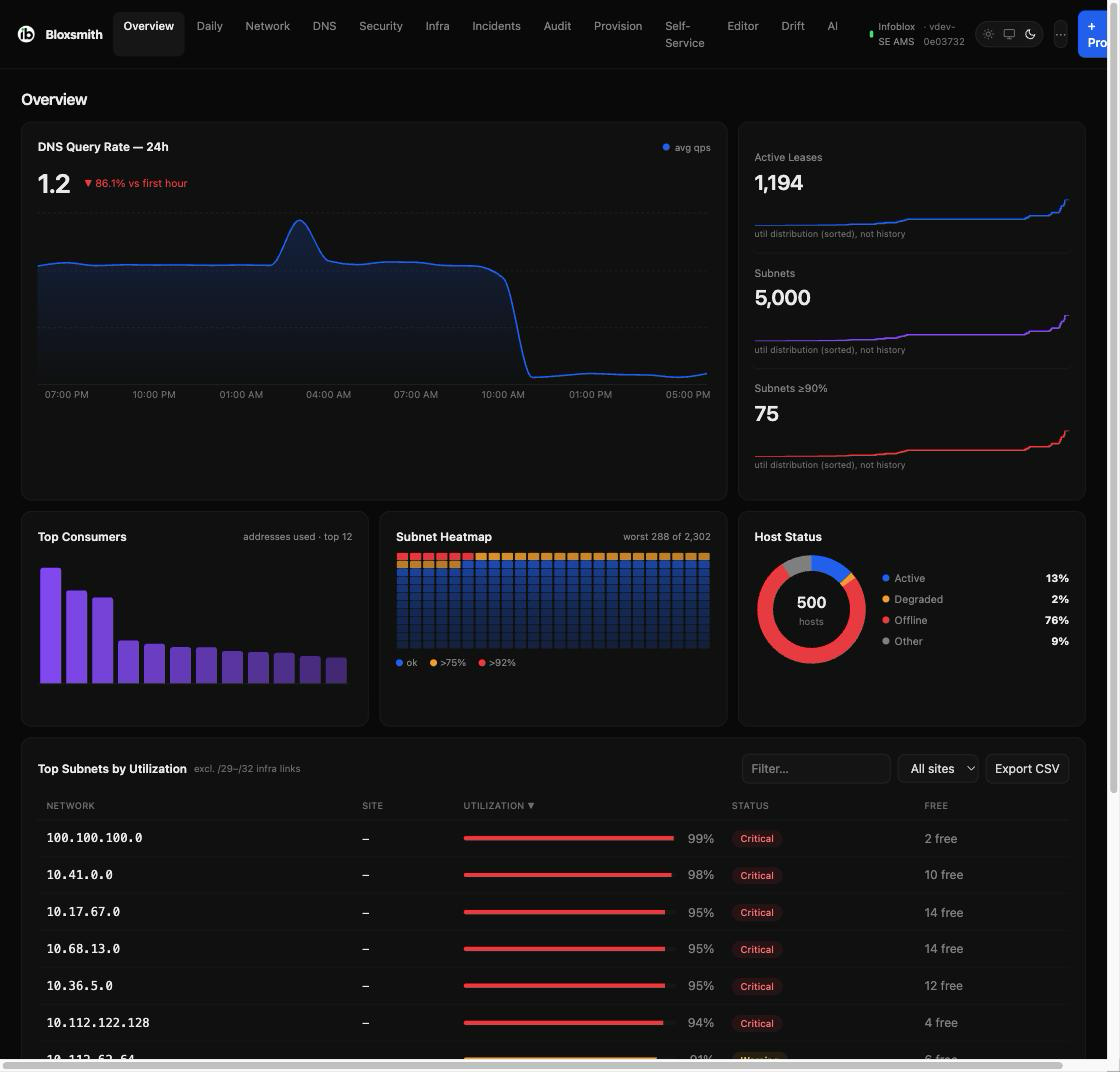
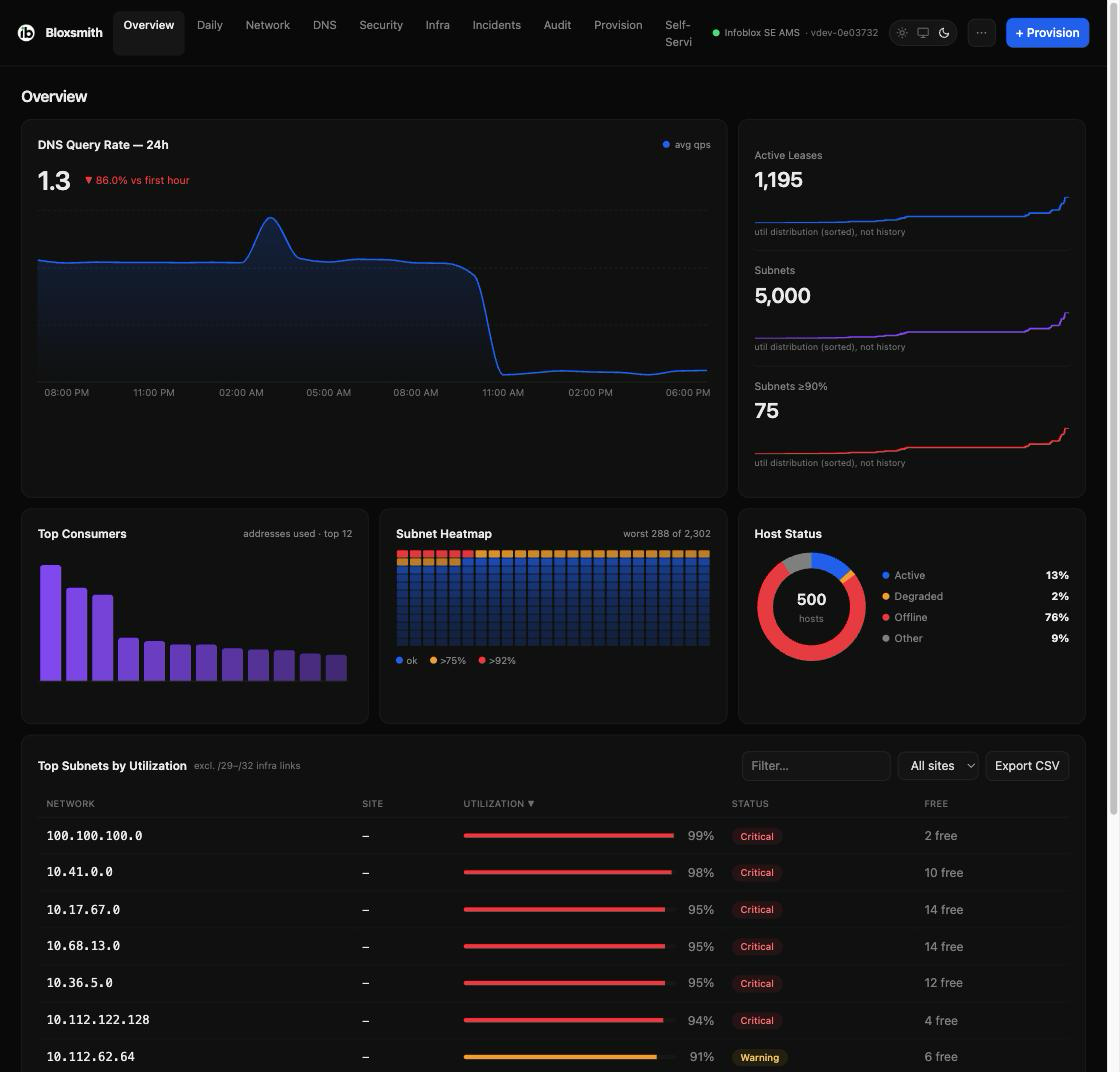
fix: v3.6.3 — kill horizontal scroll (tables + topbar), Windows install works from cmd, clean hero
- Infra CSP tables (Host Health, On-Prem Hosts, etc): table-fixed + ellipsis-truncate cells + hover title; no more horizontal scrollbar from long OPH ID hashes
- Topbar: nav shrinks/scrolls internally (hidden scrollbar), right controls pinned shrink-0 — page no longer overflows ~49px at laptop widths
- index.css: add .no-scrollbar utility
- README Windows: powershell -Command wrapper so it runs from Command Prompt too (fixes "iwr is not recognized"), explicit notepad inspect step
- docs/dashboard.png: recaptured hero with no baked-in scrollbar / clipping

diff --git a/ui/src/App.jsx b/ui/src/App.jsx
@@ -119,8 +119,8 @@ export default function App() {
             className="h-5 w-5 rounded cursor-pointer"
             onClick={() => setShowBrand(true)}
           />
-          <strong className="tracking-tight">Bloxsmith</strong>
-          <nav className="flex gap-0.5">
+          <strong className="tracking-tight shrink-0">Bloxsmith</strong>
+          <nav className="flex gap-0.5 min-w-0 overflow-x-auto no-scrollbar">
             {TABS.map((t) => (
               <a
                 key={t.id}
@@ -137,23 +137,25 @@ export default function App() {
             ))}
           </nav>
           <span className="flex-1" />
-          <ConnStatus />
-          <UpdateButton />
-          <ThemeSwitch />
-          <button
-            onClick={() => setShowAccounts(true)}
-            title="Settings"
-            aria-label="Settings"
-            className="w-8 h-8 rounded-lg border border-border bg-field text-muted hover:text-txt hover:border-border-hover"
-          >
-            ⋯
-          </button>
-          <a
-            href="#provision"
-            className="px-2.5 py-1.5 rounded-lg bg-accent border border-accent text-white text-sm font-medium no-underline"
-          >
-            + Provision
-          </a>
+          <div className="flex items-center gap-3 shrink-0">
+            <ConnStatus />
+            <UpdateButton />
+            <ThemeSwitch />
+            <button
+              onClick={() => setShowAccounts(true)}
+              title="Settings"
+              aria-label="Settings"
+              className="w-8 h-8 rounded-lg border border-border bg-field text-muted hover:text-txt hover:border-border-hover"
+            >
+              ⋯
+            </button>
+            <a
+              href="#provision"
+              className="px-2.5 py-1.5 rounded-lg bg-accent border border-accent text-white text-sm font-medium no-underline"
+            >
+              + Provision
+            </a>
+          </div>
         </div>
         <Active />
         <Palette tabs={TABS} onPick={(id) => { location.hash = id }} />

diff --git a/ui/src/tabs/Infra.jsx b/ui/src/tabs/Infra.jsx
@@ -168,8 +168,8 @@ function FeedCard({ span, title, note, feed, columns }) {
       ) : rows.length === 0 ? (
         <Empty />
       ) : (
-        <div className="overflow-auto max-h-[260px]">
-          <table className="w-full border-collapse text-sm">
+        <div className="overflow-x-hidden overflow-y-auto max-h-[260px]">
+          <table className="w-full table-fixed border-collapse text-sm">
             <thead>
               <tr>
                 {columns.map((c) => (
@@ -195,7 +195,7 @@ function FeedCard({ span, title, note, feed, columns }) {
                       )
                     }
                     return (
-                      <td key={c.key} className={`py-2 px-2.5 border-b border-line ${c.mono ? 'font-mono' : ''}`}>
+                      <td key={c.key} title={v != null ? String(v) : undefined} className={`py-2 px-2.5 border-b border-line truncate ${c.mono ? 'font-mono' : ''}`}>
                         {v ?? '—'}
                       </td>
                     )

diff --git a/go/web/index.html b/go/web/index.html
@@ -8,8 +8,8 @@
     <script>
       try{var m=localStorage.getItem('theme');var d=m==='light'?false:m==='dark'?true:!window.matchMedia||matchMedia('(prefers-color-scheme:dark)').matches;document.documentElement.setAttribute('data-theme',d?'dark':'light');}catch(e){document.documentElement.setAttribute('data-theme','dark')}
     </script>
-    <script type="module" crossorigin src="/assets/index-DmpgO4RT.js"></script>
-    <link rel="stylesheet" crossorigin href="/assets/index-B5eGEwpr.css">
+    <script type="module" crossorigin src="/assets/index-CXE7foCo.js"></script>
+    <link rel="stylesheet" crossorigin href="/assets/index-UkcIab5a.css">
   </head>
   <body>
     <div id="root"></div>

diff --git a/ui/src/index.css b/ui/src/index.css
@@ -80,3 +80,7 @@ body {
   background: var(--color-bg);
   min-height: 100vh;
 }
+
+/* hide scrollbar on internally-scrolling strips (e.g. topbar nav on narrow widths) */
+.no-scrollbar { scrollbar-width: none; -ms-overflow-style: none; }
+.no-scrollbar::-webkit-scrollbar { display: none; }

diff --git a/go/web/assets/index-UkcIab5a.css b/go/web/assets/index-UkcIab5a.css
@@ -1,0 +1,2 @@
+/*! tailwindcss v4.3.3 | MIT License | https://tailwindcss.com */
+@layer properties{@supports (((-webkit-hyphens:none)) and (not (margin-trim:inline))) or ((-moz-orient:inline) and (not (color:rgb(from red r g b)))){*,:before,:after,::backdrop{--tw-rotate-x:initial;--tw-rotate-y:initial;--tw-rotate-z:initial;--tw-skew-x:initial;--tw-skew-y:initial;--tw-space-y-reverse:0;--tw-border-style:solid;--tw-leading:initial;--tw-font-weight:initial;--tw-tracking:initial;--tw-shadow:0 0 #0000;--tw-shadow-color:initial;--tw-shadow-alpha:100%;--tw-inset-shadow:0 0 #0000;--tw-inset-shadow-color:initial;--tw-inset-shadow-alpha:100%;--tw-ring-color:initial;--tw-ring-shadow:0 0 #0000;--tw-inset-ring-color:initial;--tw-inset-ring-shadow:0 0 #0000;--tw-ring-inset:initial;--tw-ring-offset-width:0px;--tw-ring-offset-color:#fff;--tw-ring-offset-shadow:0 0 #0000;--tw-blur:initial;--tw-brightness:initial;--tw-contrast:initial;--tw-grayscale:initial;--tw-hue-rotate:initial;--tw-invert:initial;--tw-opacity:initial;--tw-saturate:initial;--tw-sepia:initial;--tw-drop-shadow:initial;--tw-drop-shadow-color:initial;--tw-drop-shadow-alpha:100%;--tw-drop-shadow-size:initial;--tw-backdrop-blur:initial;--tw-backdrop-brightness:initial;--tw-backdrop-contrast:initial;--tw-backdrop-grayscale:initial;--tw-backdrop-hue-rotate:initial;--tw-backdrop-invert:initial;--tw-backdrop-opacity:initial;--tw-backdrop-saturate:initial;--tw-backdrop-sepia:initial}}}@layer theme{:root,:host{--font-sans:system-ui, -apple-system, sans-serif;--font-mono:ui-monospace, SFMono-Regular, Menlo, Monaco, Consolas, "Liberation Mono", "Courier New", monospace;--color-red-500:oklch(63.7% .237 25.331);--color-black:#000;--color-white:#fff;--spacing:.25rem;--text-xs:.75rem;--text-xs--line-height:calc(1 / .75);--text-sm:.875rem;--text-sm--line-height:calc(1.25 / .875);--text-base:1rem;--text-base--line-height:calc(1.5 / 1);--text-lg:1.125rem;--text-lg--line-height:calc(1.75 / 1.125);--text-xl:1.25rem;--text-xl--line-height:calc(1.75 / 1.25);--text-2xl:1.5rem;--text-2xl--line-height:calc(2 / 1.5);--font-weight-normal:400;--font-weight-medium:500;--font-weight-semibold:600;--tracking-tight:-.025em;--tracking-wide:.025em;--leading-relaxed:1.625;--radius-sm:.25rem;--radius-md:.375rem;--radius-lg:.5rem;--radius-xl:.75rem;--animate-spin:spin 1s linear infinite;--animate-pulse:pulse 2s cubic-bezier(.4, 0, .6, 1) infinite;--default-transition-duration:.15s;--default-transition-timing-function:cubic-bezier(.4, 0, .2, 1);--default-font-family:var(--font-sans);--default-mono-font-family:var(--font-mono);--color-bg:#050505;--color-card:#0e0e0e;--color-card-border:#1e1e1e;--color-line:#161616;--color-line-2:#1c1c1c;--color-field:#141414;--color-border:#2a2a2a;--color-border-hover:#3a3a3a;--color-txt:#ededed;--color-field-txt:#ddd;--color-muted:#8a8a8a;--color-dim:#777;--color-grid:#222;--color-tick:#777;--color-accent:#0070f3;--color-purple:#8b5cf6;--color-ok:#4ade80;--color-warn:#f5a623;--color-crit:#e44;--color-other:#8a8a8a;--color-sev-high:#ff7b7b;--radius-card:12px}}@layer base{*,:after,:before,::backdrop{box-sizing:border-box;border:0 solid;margin:0;padding:0}::file-selector-button{box-sizing:border-box;border:0 solid;margin:0;padding:0}html,:host{-webkit-text-size-adjust:100%;tab-size:4;line-height:1.5;font-family:var(--default-font-family,-apple-system, BlinkMacSystemFont, "Segoe UI", Roboto, "Helvetica Neue", "Noto Sans", Arial, sans-serif, "Apple Color Emoji", "Segoe UI Emoji", "Segoe UI Symbol", "Noto Color Emoji");font-feature-settings:var(--default-font-feature-settings,normal);font-variation-settings:var(--default-font-variation-settings,normal);-webkit-tap-highlight-color:transparent}hr{height:0;color:inherit;border-top-width:1px}abbr:where([title]){-webkit-text-decoration:underline dotted;text-decoration:underline dotted}h1,h2,h3,h4,h5,h6{font-size:inherit;font-weight:inherit}a{color:inherit;-webkit-text-decoration:inherit;-webkit-text-decoration:inherit;-webkit-text-decoration:inherit;-webkit-text-decoration:inherit;text-decoration:inherit}b,strong{font-weight:bolder}code,kbd,samp,pre{font-family:var(--default-mono-font-family,ui-monospace, SFMono-Regular, Menlo, Monaco, Consolas, "Liberation Mono", "Courier New", monospace);font-feature-settings:var(--default-mono-font-feature-settings,normal);font-variation-settings:var(--default-mono-font-variation-settings,normal);font-size:1em}small{font-size:80%}sub,sup{vertical-align:baseline;font-size:75%;line-height:0;position:relative}sub{bottom:-.25em}sup{top:-.5em}table{text-indent:0;border-color:inherit;border-collapse:collapse}:-moz-focusring:where(:not(iframe)){outline:auto}progress{vertical-align:baseline}summary{display:list-item}ol,ul,menu{list-style:none}img,svg,video,canvas,audio,iframe,embed,object{vertical-align:middle;display:block}img,video{max-width:100%;height:auto}button,input,select,optgroup,textarea{font:inherit;font-feature-settings:inherit;font-variation-settings:inherit;letter-spacing:inherit;color:inherit;opacity:1;background-color:#0000;border-radius:0}::file-selector-button{font:inherit;font-feature-settings:inherit;font-variation-settings:inherit;letter-spacing:inherit;color:inherit;opacity:1;background-color:#0000;border-radius:0}:where(select:is([multiple],[size])) optgroup{font-weight:bolder}:where(select:is([multiple],[size])) optgroup option{padding-inline-start:20px}::file-selector-button{margin-inline-end:4px}::placeholder{opacity:1}@supports (not ((-webkit-appearance:-apple-pay-button))) or (contain-intrinsic-size:1px){::placeholder{color:currentColor}@supports (color:color-mix(in lab, red, red)){::placeholder{color:color-mix(in oklab, currentcolor 50%, transparent)}}}textarea{resize:vertical}::-webkit-search-decoration{-webkit-appearance:none}::-webkit-date-and-time-value{min-height:1lh;text-align:inherit}::-webkit-datetime-edit{display:inline-flex}::-webkit-datetime-edit-fields-wrapper{padding:0}::-webkit-datetime-edit{padding-block:0}::-webkit-datetime-edit-year-field{padding-block:0}::-webkit-datetime-edit-month-field{padding-block:0}::-webkit-datetime-edit-day-field{padding-block:0}::-webkit-datetime-edit-hour-field{padding-block:0}::-webkit-datetime-edit-minute-field{padding-block:0}::-webkit-datetime-edit-second-field{padding-block:0}::-webkit-datetime-edit-millisecond-field{padding-block:0}::-webkit-datetime-edit-meridiem-field{padding-block:0}::-webkit-calendar-picker-indicator{line-height:1}:-moz-ui-invalid{box-shadow:none}button,input:where([type=button],[type=reset],[type=submit]){appearance:button}::file-selector-button{appearance:button}::-webkit-inner-spin-button{height:auto}::-webkit-outer-spin-button{height:auto}[hidden]:where(:not([hidden=until-found])){display:none!important}}@layer components;@layer utilities{.pointer-events-none{pointer-events:none}.absolute{position:absolute}.fixed{position:fixed}.relative{position:relative}.sticky{position:sticky}.inset-0{inset:0}.top-0{top:0}.z-10{z-index:10}.z-50{z-index:50}.z-\[200\]{z-index:200}.-mx-1{margin-inline:calc(var(--spacing) * -1)}.mx-auto{margin-inline:auto}.my-1{margin-block:var(--spacing)}.my-2{margin-block:calc(var(--spacing) * 2)}.mt-0\.5{margin-top:calc(var(--spacing) * .5)}.mt-1{margin-top:var(--spacing)}.mt-1\.5{margin-top:calc(var(--spacing) * 1.5)}.mt-2{margin-top:calc(var(--spacing) * 2)}.mt-2\.5{margin-top:calc(var(--spacing) * 2.5)}.mt-3{margin-top:calc(var(--spacing) * 3)}.mt-3\.5{margin-top:calc(var(--spacing) * 3.5)}.mt-4{margin-top:calc(var(--spacing) * 4)}.mb-0\.5{margin-bottom:calc(var(--spacing) * .5)}.mb-1{margin-bottom:var(--spacing)}.mb-1\.5{margin-bottom:calc(var(--spacing) * 1.5)}.mb-2{margin-bottom:calc(var(--spacing) * 2)}.mb-3{margin-bottom:calc(var(--spacing) * 3)}.mb-4{margin-bottom:calc(var(--spacing) * 4)}.mb-5{margin-bottom:calc(var(--spacing) * 5)}.ml-2{margin-left:calc(var(--spacing) * 2)}.ml-auto{margin-left:auto}.block{display:block}.contents{display:contents}.flex{display:flex}.grid{display:grid}.inline{display:inline}.inline-block{display:inline-block}.inline-flex{display:inline-flex}.table{display:table}.h-2{height:calc(var(--spacing) * 2)}.h-5{height:calc(var(--spacing) * 5)}.h-6{height:calc(var(--spacing) * 6)}.h-7{height:calc(var(--spacing) * 7)}.h-8{height:calc(var(--spacing) * 8)}.h-\[5px\]{height:5px}.h-\[6px\]{height:6px}.h-\[30px\]{height:30px}.h-\[130px\]{height:130px}.h-full{height:100%}.max-h-\[80vh\]{max-height:80vh}.max-h-\[220px\]{max-height:220px}.max-h-\[240px\]{max-height:240px}.max-h-\[260px\]{max-height:260px}.max-h-\[280px\]{max-height:280px}.max-h-\[300px\]{max-height:300px}.max-h-\[420px\]{max-height:420px}.max-h-\[480px\]{max-height:480px}.min-h-\[100px\]{min-height:100px}.min-h-\[280px\]{min-height:280px}.min-h-screen{min-height:100vh}.w-2{width:calc(var(--spacing) * 2)}.w-5{width:calc(var(--spacing) * 5)}.w-6{width:calc(var(--spacing) * 6)}.w-7{width:calc(var(--spacing) * 7)}.w-8{width:calc(var(--spacing) * 8)}.w-9{width:calc(var(--spacing) * 9)}.w-12{width:calc(var(--spacing) * 12)}.w-\[110px\]{width:110px}.w-\[130px\]{width:130px}.w-\[150px\]{width:150px}.w-\[170px\]{width:170px}.w-\[220px\]{width:220px}.w-\[360px\]{width:360px}.w-\[380px\]{width:380px}.w-\[420px\]{width:420px}.w-fit{width:fit-content}.w-full{width:100%}.max-w-\[80\%\]{max-width:80%}.max-w-\[85\%\]{max-width:85%}.max-w-\[140px\]{max-width:140px}.max-w-\[160px\]{max-width:160px}.max-w-\[640px\]{max-width:640px}.max-w-\[720px\]{max-width:720px}.max-w-\[860px\]{max-width:860px}.max-w-full{max-width:100%}.min-w-0{min-width:0}.min-w-\[70px\]{min-width:70px}.min-w-\[420px\]{min-width:420px}.flex-1{flex:1}.shrink-0{flex-shrink:0}.table-fixed{table-layout:fixed}.border-collapse{border-collapse:collapse}.transform{transform:var(--tw-rotate-x,) var(--tw-rotate-y,) var(--tw-rotate-z,) var(--tw-skew-x,) var(--tw-skew-y,)}.animate-pulse{animation:var(--animate-pulse)}.animate-spin{animation:var(--animate-spin)}.cursor-pointer{cursor:pointer}.grid-cols-1{grid-template-columns:repeat(1,minmax(0,1fr))}.grid-cols-2{grid-template-columns:repeat(2,minmax(0,1fr))}.grid-cols-4{grid-template-columns:repeat(4,minmax(0,1fr))}.grid-cols-6{grid-template-columns:repeat(6,minmax(0,1fr))}.grid-cols-\[auto_1fr\]{grid-template-columns:auto 1fr}.flex-col{flex-direction:column}.flex-row{flex-direction:row}.flex-wrap{flex-wrap:wrap}.items-center{align-items:center}.items-start{align-items:flex-start}.items-stretch{align-items:stretch}.justify-between{justify-content:space-between}.justify-center{justify-content:center}.justify-end{justify-content:flex-end}.justify-start{justify-content:flex-start}.gap-0\.5{gap:calc(var(--spacing) * .5)}.gap-1{gap:var(--spacing)}.gap-1\.5{gap:calc(var(--spacing) * 1.5)}.gap-2{gap:calc(var(--spacing) * 2)}.gap-2\.5{gap:calc(var(--spacing) * 2.5)}.gap-3{gap:calc(var(--spacing) * 3)}.gap-3\.5{gap:calc(var(--spacing) * 3.5)}.gap-4{gap:calc(var(--spacing) * 4)}.gap-5{gap:calc(var(--spacing) * 5)}:where(.space-y-0\.5>:not(:last-child)){--tw-space-y-reverse:0;margin-block-start:calc(calc(var(--spacing) * .5) * var(--tw-space-y-reverse));margin-block-end:calc(calc(var(--spacing) * .5) * calc(1 - var(--tw-space-y-reverse)))}:where(.space-y-1>:not(:last-child)){--tw-space-y-reverse:0;margin-block-start:calc(var(--spacing) * var(--tw-space-y-reverse));margin-block-end:calc(var(--spacing) * calc(1 - var(--tw-space-y-reverse)))}:where(.space-y-2>:not(:last-child)){--tw-space-y-reverse:0;margin-block-start:calc(calc(var(--spacing) * 2) * var(--tw-space-y-reverse));margin-block-end:calc(calc(var(--spacing) * 2) * calc(1 - var(--tw-space-y-reverse)))}.gap-x-3{column-gap:calc(var(--spacing) * 3)}.gap-y-0\.5{row-gap:calc(var(--spacing) * .5)}.self-start{align-self:flex-start}.truncate{text-overflow:ellipsis;white-space:nowrap;overflow:hidden}.overflow-auto{overflow:auto}.overflow-hidden{overflow:hidden}.overflow-x-auto{overflow-x:auto}.overflow-x-hidden{overflow-x:hidden}.overflow-y-auto{overflow-y:auto}.rounded{border-radius:.25rem}.rounded-card{border-radius:var(--radius-card)}.rounded-full{border-radius:2147483647px}.rounded-lg{border-radius:var(--radius-lg)}.rounded-md{border-radius:var(--radius-md)}.rounded-sm{border-radius:var(--radius-sm)}.rounded-xl{border-radius:var(--radius-xl)}.border{border-style:var(--tw-border-style);border-width:1px}.border-2{border-style:var(--tw-border-style);border-width:2px}.border-t{border-top-style:var(--tw-border-style);border-top-width:1px}.border-r{border-right-style:var(--tw-border-style);border-right-width:1px}.border-b{border-bottom-style:var(--tw-border-style);border-bottom-width:1px}.border-none{--tw-border-style:none;border-style:none}.border-accent{border-color:var(--color-accent)}.border-border{border-color:var(--color-border)}.border-card-border{border-color:var(--color-card-border)}.border-crit{border-color:var(--color-crit)}.border-crit\/40{border-color:#e446}@supports (color:color-mix(in lab, red, red)){.border-crit\/40{border-color:color-mix(in oklab, var(--color-crit) 40%, transparent)}}.border-line{border-color:var(--color-line)}.border-line-2{border-color:var(--color-line-2)}.border-transparent{border-color:#0000}.border-t-accent{border-top-color:var(--color-accent)}.bg-accent{background-color:var(--color-accent)}.bg-bg{background-color:var(--color-bg)}.bg-bg\/95{background-color:#050505f2}@supports (color:color-mix(in lab, red, red)){.bg-bg\/95{background-color:color-mix(in oklab, var(--color-bg) 95%, transparent)}}.bg-black\/60{background-color:#0009}@supports (color:color-mix(in lab, red, red)){.bg-black\/60{background-color:color-mix(in oklab, var(--color-black) 60%, transparent)}}.bg-card{background-color:var(--color-card)}.bg-crit\/10{background-color:#ee44441a}@supports (color:color-mix(in lab, red, red)){.bg-crit\/10{background-color:color-mix(in oklab, var(--color-crit) 10%, transparent)}}.bg-field{background-color:var(--color-field)}.bg-line{background-color:var(--color-line)}.bg-line-2{background-color:var(--color-line-2)}.bg-line\/40{background-color:#16161666}@supports (color:color-mix(in lab, red, red)){.bg-line\/40{background-color:color-mix(in oklab, var(--color-line) 40%, transparent)}}.bg-transparent{background-color:#0000}.object-contain{object-fit:contain}.p-0\.5{padding:calc(var(--spacing) * .5)}.p-1{padding:var(--spacing)}.p-2{padding:calc(var(--spacing) * 2)}.p-2\.5{padding:calc(var(--spacing) * 2.5)}.p-3{padding:calc(var(--spacing) * 3)}.p-5{padding:calc(var(--spacing) * 5)}.p-8{padding:calc(var(--spacing) * 8)}.p-\[18px\]{padding:18px}.px-1{padding-inline:var(--spacing)}.px-1\.5{padding-inline:calc(var(--spacing) * 1.5)}.px-2{padding-inline:calc(var(--spacing) * 2)}.px-2\.5{padding-inline:calc(var(--spacing) * 2.5)}.px-3{padding-inline:calc(var(--spacing) * 3)}.px-3\.5{padding-inline:calc(var(--spacing) * 3.5)}.px-4{padding-inline:calc(var(--spacing) * 4)}.px-5{padding-inline:calc(var(--spacing) * 5)}.px-6{padding-inline:calc(var(--spacing) * 6)}.py-0\.5{padding-block:calc(var(--spacing) * .5)}.py-1{padding-block:var(--spacing)}.py-1\.5{padding-block:calc(var(--spacing) * 1.5)}.py-2{padding-block:calc(var(--spacing) * 2)}.py-2\.5{padding-block:calc(var(--spacing) * 2.5)}.py-3{padding-block:calc(var(--spacing) * 3)}.py-3\.5{padding-block:calc(var(--spacing) * 3.5)}.py-4{padding-block:calc(var(--spacing) * 4)}.py-5{padding-block:calc(var(--spacing) * 5)}.pt-1{padding-top:var(--spacing)}.pt-2{padding-top:calc(var(--spacing) * 2)}.pt-3{padding-top:calc(var(--spacing) * 3)}.pt-\[18vh\]{padding-top:18vh}.pr-3{padding-right:calc(var(--spacing) * 3)}.pb-1{padding-bottom:var(--spacing)}.text-center{text-align:center}.text-left{text-align:left}.text-right{text-align:right}.align-top{vertical-align:top}.font-mono{font-family:var(--font-mono)}.text-2xl{font-size:var(--text-2xl);line-height:var(--tw-leading,var(--text-2xl--line-height))}.text-base{font-size:var(--text-base);line-height:var(--tw-leading,var(--text-base--line-height))}.text-lg{font-size:var(--text-lg);line-height:var(--tw-leading,var(--text-lg--line-height))}.text-sm{font-size:var(--text-sm);line-height:var(--tw-leading,var(--text-sm--line-height))}.text-xl{font-size:var(--text-xl);line-height:var(--tw-leading,var(--text-xl--line-height))}.text-xs{font-size:var(--text-xs);line-height:var(--tw-leading,var(--text-xs--line-height))}.text-\[10\.5px\]{font-size:10.5px}.text-\[10px\]{font-size:10px}.text-\[11px\]{font-size:11px}.text-\[12px\]{font-size:12px}.text-\[13\.5px\]{font-size:13.5px}.text-\[13px\]{font-size:13px}.text-\[22px\]{font-size:22px}.text-\[30px\]{font-size:30px}.leading-relaxed{--tw-leading:var(--leading-relaxed);line-height:var(--leading-relaxed)}.font-medium{--tw-font-weight:var(--font-weight-medium);font-weight:var(--font-weight-medium)}.font-normal{--tw-font-weight:var(--font-weight-normal);font-weight:var(--font-weight-normal)}.font-semibold{--tw-font-weight:var(--font-weight-semibold);font-weight:var(--font-weight-semibold)}.tracking-tight{--tw-tracking:var(--tracking-tight);letter-spacing:var(--tracking-tight)}.tracking-wide{--tw-tracking:var(--tracking-wide);letter-spacing:var(--tracking-wide)}.break-all{word-break:break-all}.whitespace-nowrap{white-space:nowrap}.whitespace-pre-wrap{white-space:pre-wrap}.text-crit{color:var(--color-crit)}.text-dim{color:var(--color-dim)}.text-field-txt{color:var(--color-field-txt)}.text-muted{color:var(--color-muted)}.text-ok{color:var(--color-ok)}.text-red-500{color:var(--color-red-500)}.text-txt{color:var(--color-txt)}.text-white{color:var(--color-white)}.capitalize{text-transform:capitalize}.uppercase{text-transform:uppercase}.no-underline{text-decoration-line:none}.underline{text-decoration-line:underline}.underline-offset-2{text-underline-offset:2px}.opacity-70{opacity:.7}.shadow-2xl{--tw-shadow:0 25px 50px -12px var(--tw-shadow-color,#00000040);box-shadow:var(--tw-inset-shadow), var(--tw-inset-ring-shadow), var(--tw-ring-offset-shadow), var(--tw-ring-shadow), var(--tw-shadow)}.filter{filter:var(--tw-blur,) var(--tw-brightness,) var(--tw-contrast,) var(--tw-grayscale,) var(--tw-hue-rotate,) var(--tw-invert,) var(--tw-saturate,) var(--tw-sepia,) var(--tw-drop-shadow,)}.backdrop-blur{--tw-backdrop-blur:blur(8px);-webkit-backdrop-filter:var(--tw-backdrop-blur,) var(--tw-backdrop-brightness,) var(--tw-backdrop-contrast,) var(--tw-backdrop-grayscale,) var(--tw-backdrop-hue-rotate,) var(--tw-backdrop-invert,) var(--tw-backdrop-opacity,) var(--tw-backdrop-saturate,) var(--tw-backdrop-sepia,);backdrop-filter:var(--tw-backdrop-blur,) var(--tw-backdrop-brightness,) var(--tw-backdrop-contrast,) var(--tw-backdrop-grayscale,) var(--tw-backdrop-hue-rotate,) var(--tw-backdrop-invert,) var(--tw-backdrop-opacity,) var(--tw-backdrop-saturate,) var(--tw-backdrop-sepia,)}.transition-colors{transition-property:color,background-color,border-color,outline-color,text-decoration-color,fill,stroke,--tw-gradient-from,--tw-gradient-via,--tw-gradient-to;transition-timing-function:var(--tw-ease,var(--default-transition-timing-function));transition-duration:var(--tw-duration,var(--default-transition-duration))}.transition-opacity{transition-property:opacity;transition-timing-function:var(--tw-ease,var(--default-transition-timing-function));transition-duration:var(--tw-duration,var(--default-transition-duration))}.outline-none{--tw-outline-style:none;outline-style:none}.select-none{-webkit-user-select:none;user-select:none}.last\:border-0:last-child{border-style:var(--tw-border-style);border-width:0}@media (hover:hover){.hover\:border-border-hover:hover{border-color:var(--color-border-hover)}.hover\:border-crit:hover{border-color:var(--color-crit)}.hover\:bg-line:hover{background-color:var(--color-line)}.hover\:bg-line\/50:hover{background-color:#16161680}@supports (color:color-mix(in lab, red, red)){.hover\:bg-line\/50:hover{background-color:color-mix(in oklab, var(--color-line) 50%, transparent)}}.hover\:text-crit:hover{color:var(--color-crit)}.hover\:text-field-txt:hover{color:var(--color-field-txt)}.hover\:text-muted:hover{color:var(--color-muted)}.hover\:text-txt:hover{color:var(--color-txt)}.hover\:opacity-80:hover{opacity:.8}}.focus\:border-accent:focus{border-color:var(--color-accent)}.disabled\:cursor-not-allowed:disabled{cursor:not-allowed}.disabled\:opacity-40:disabled{opacity:.4}.disabled\:opacity-50:disabled{opacity:.5}@media (width>=40rem){.sm\:grid-cols-3{grid-template-columns:repeat(3,minmax(0,1fr))}}}:root{--pill-crit-bg:#2a1215;--pill-crit-fg:#ff7b7b;--pill-warn-bg:#2a2210;--pill-warn-fg:#f5c76b;--pill-ok-bg:#0d2136;--pill-ok-fg:#6bb2ff;--pill-neutral-bg:#1a1a1a;--pill-neutral-fg:#8a8a8a}:root[data-theme=light]{--color-bg:#f7f7f8;--color-card:#fff;--color-card-border:#e5e5e5;--color-line:#eee;--color-line-2:#e5e5e5;--color-field:#fff;--color-border:#e5e5e5;--color-border-hover:#d4d4d4;--color-txt:#111;--color-field-txt:#111;--color-muted:#666;--color-dim:#999;--color-grid:#e5e5e5;--color-tick:#999;--color-accent:#0070f3;--color-purple:#7c3aed;--color-ok:#16a34a;--color-warn:#b45309;--color-crit:#dc2626;--color-other:#888;--color-sev-high:#e5484d;--pill-crit-bg:#fde8e8;--pill-crit-fg:#b91c1c;--pill-warn-bg:#fef3d6;--pill-warn-fg:#92600a;--pill-ok-bg:#e6f0fd;--pill-ok-fg:#0757c9;--pill-neutral-bg:#f0f0f0;--pill-neutral-fg:#555}html{background:var(--color-bg)}body{font-family:var(--font-sans);color:var(--color-txt);background:var(--color-bg);min-height:100vh;margin:0;font-size:14px}.no-scrollbar{scrollbar-width:none;-ms-overflow-style:none}.no-scrollbar::-webkit-scrollbar{display:none}@property --tw-rotate-x{syntax:"*";inherits:false}@property --tw-rotate-y{syntax:"*";inherits:false}@property --tw-rotate-z{syntax:"*";inherits:false}@property --tw-skew-x{syntax:"*";inherits:false}@property --tw-skew-y{syntax:"*";inherits:false}@property --tw-space-y-reverse{syntax:"*";inherits:false;initial-value:0}@property --tw-border-style{syntax:"*";inherits:false;initial-value:solid}@property --tw-leading{syntax:"*";inherits:false}@property --tw-font-weight{syntax:"*";inherits:false}@property --tw-tracking{syntax:"*";inherits:false}@property --tw-shadow{syntax:"*";inherits:false;initial-value:0 0 #0000}@property --tw-shadow-color{syntax:"*";inherits:false}@property --tw-shadow-alpha{syntax:"<percentage>";inherits:false;initial-value:100%}@property --tw-inset-shadow{syntax:"*";inherits:false;initial-value:0 0 #0000}@property --tw-inset-shadow-color{syntax:"*";inherits:false}@property --tw-inset-shadow-alpha{syntax:"<percentage>";inherits:false;initial-value:100%}@property --tw-ring-color{syntax:"*";inherits:false}@property --tw-ring-shadow{syntax:"*";inherits:false;initial-value:0 0 #0000}@property --tw-inset-ring-color{syntax:"*";inherits:false}@property --tw-inset-ring-shadow{syntax:"*";inherits:false;initial-value:0 0 #0000}@property --tw-ring-inset{syntax:"*";inherits:false}@property --tw-ring-offset-width{syntax:"<length>";inherits:false;initial-value:0}@property --tw-ring-offset-color{syntax:"*";inherits:false;initial-value:#fff}@property --tw-ring-offset-shadow{syntax:"*";inherits:false;initial-value:0 0 #0000}@property --tw-blur{syntax:"*";inherits:false}@property --tw-brightness{syntax:"*";inherits:false}@property --tw-contrast{syntax:"*";inherits:false}@property --tw-grayscale{syntax:"*";inherits:false}@property --tw-hue-rotate{syntax:"*";inherits:false}@property --tw-invert{syntax:"*";inherits:false}@property --tw-opacity{syntax:"*";inherits:false}@property --tw-saturate{syntax:"*";inherits:false}@property --tw-sepia{syntax:"*";inherits:false}@property --tw-drop-shadow{syntax:"*";inherits:false}@property --tw-drop-shadow-color{syntax:"*";inherits:false}@property --tw-drop-shadow-alpha{syntax:"<percentage>";inherits:false;initial-value:100%}@property --tw-drop-shadow-size{syntax:"*";inherits:false}@property --tw-backdrop-blur{syntax:"*";inherits:false}@property --tw-backdrop-brightness{syntax:"*";inherits:false}@property --tw-backdrop-contrast{syntax:"*";inherits:false}@property --tw-backdrop-grayscale{syntax:"*";inherits:false}@property --tw-backdrop-hue-rotate{syntax:"*";inherits:false}@property --tw-backdrop-invert{syntax:"*";inherits:false}@property --tw-backdrop-opacity{syntax:"*";inherits:false}@property --tw-backdrop-saturate{syntax:"*";inherits:false}@property --tw-backdrop-sepia{syntax:"*";inherits:false}@keyframes spin{to{transform:rotate(360deg)}}@keyframes pulse{50%{opacity:.5}}

diff --git a/README.md b/README.md
@@ -24,12 +24,15 @@ curl --proto '=https' --tlsv1.2 -fsSLo install.sh https://github.com/holland-bui
 brew install holland-built/tap/bloxsmith
 ```
 
-**Windows** — inspect, then run; it opens the dashboard for you:
+**Windows** — paste into **Command Prompt or PowerShell**; it downloads, you inspect, then it installs and opens the dashboard:
 
 ```powershell
-iwr -UseBasicParsing -OutFile install.ps1 https://github.com/holland-built/bloxsmith/releases/latest/download/install.ps1
+powershell -Command "iwr -UseBasicParsing -OutFile install.ps1 https://github.com/holland-built/bloxsmith/releases/latest/download/install.ps1"
+notepad install.ps1
 powershell -ExecutionPolicy Bypass -File .\install.ps1
 ```
+
+Both `powershell` lines run from either shell — no "iwr is not recognized" error. Close Notepad after reading to continue.
 
 **Docker** — then open http://localhost:8080 yourself:
 